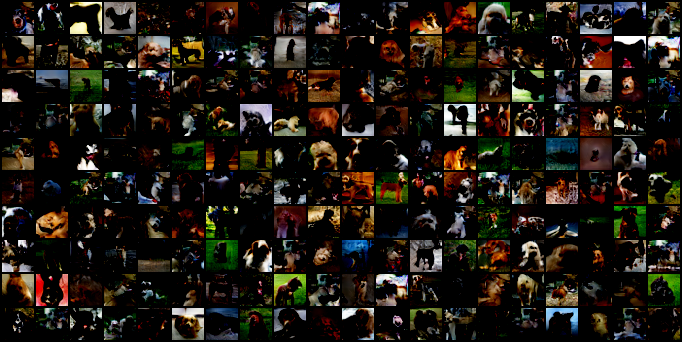
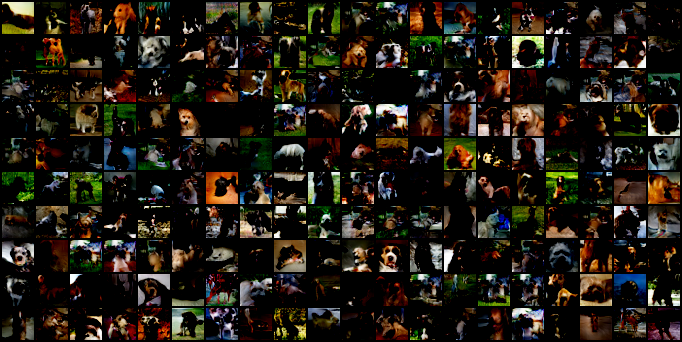
nn init weights

diff --git a/make_image.py b/make_image.py
@@ -9,6 +9,7 @@ from torchvision import datasets, transforms
 import os
 from model import *
 import util
+from nnencoder import Encoder32
 
 def parse_args():
     r"""
@@ -102,13 +103,13 @@ def eval(args):
     net_d.load_state_dict(state_dict["net_d"])
 
     # load encoder
-    enc = torch.load('net-g-600', map_location=torch.device('cpu'))
+    enc = torch.load('enc-0', map_location=torch.device('cpu'))
 
     z = torch.randn((args.batch_size * 10, 128))
     x = net_g(z)
     x1 = x.reshape((200,3,32,32))
     save_image(make_grid(x1, nrow=20), 'try-1.png')
-    x = net_g(enc(z))
+    x = net_g(enc(x))
     x1 = x.reshape((200, 3, 32, 32))
     save_image(make_grid(x1, nrow=20), 'try-2.png')
 

diff --git a/nnencoder.py b/nnencoder.py
@@ -30,6 +30,11 @@ class Encoder32(nn.Module):
         self.fc3 = nn.Linear(ngf, ngf)
         self.fc4 = nn.Linear(ngf, nz)
 
+        torch.nn.init.xavier_uniform(self.fc1.weight)
+        torch.nn.init.xavier_uniform(self.fc2.weight)
+        torch.nn.init.xavier_uniform(self.fc3.weight)
+        torch.nn.init.xavier_uniform(self.fc4.weight)
+
         '''nn.init.xavier_uniform_(self.l1.weight.data, 1.0)
         nn.init.xavier_uniform_(self.c5.weight.data, 1.0)'''
 
